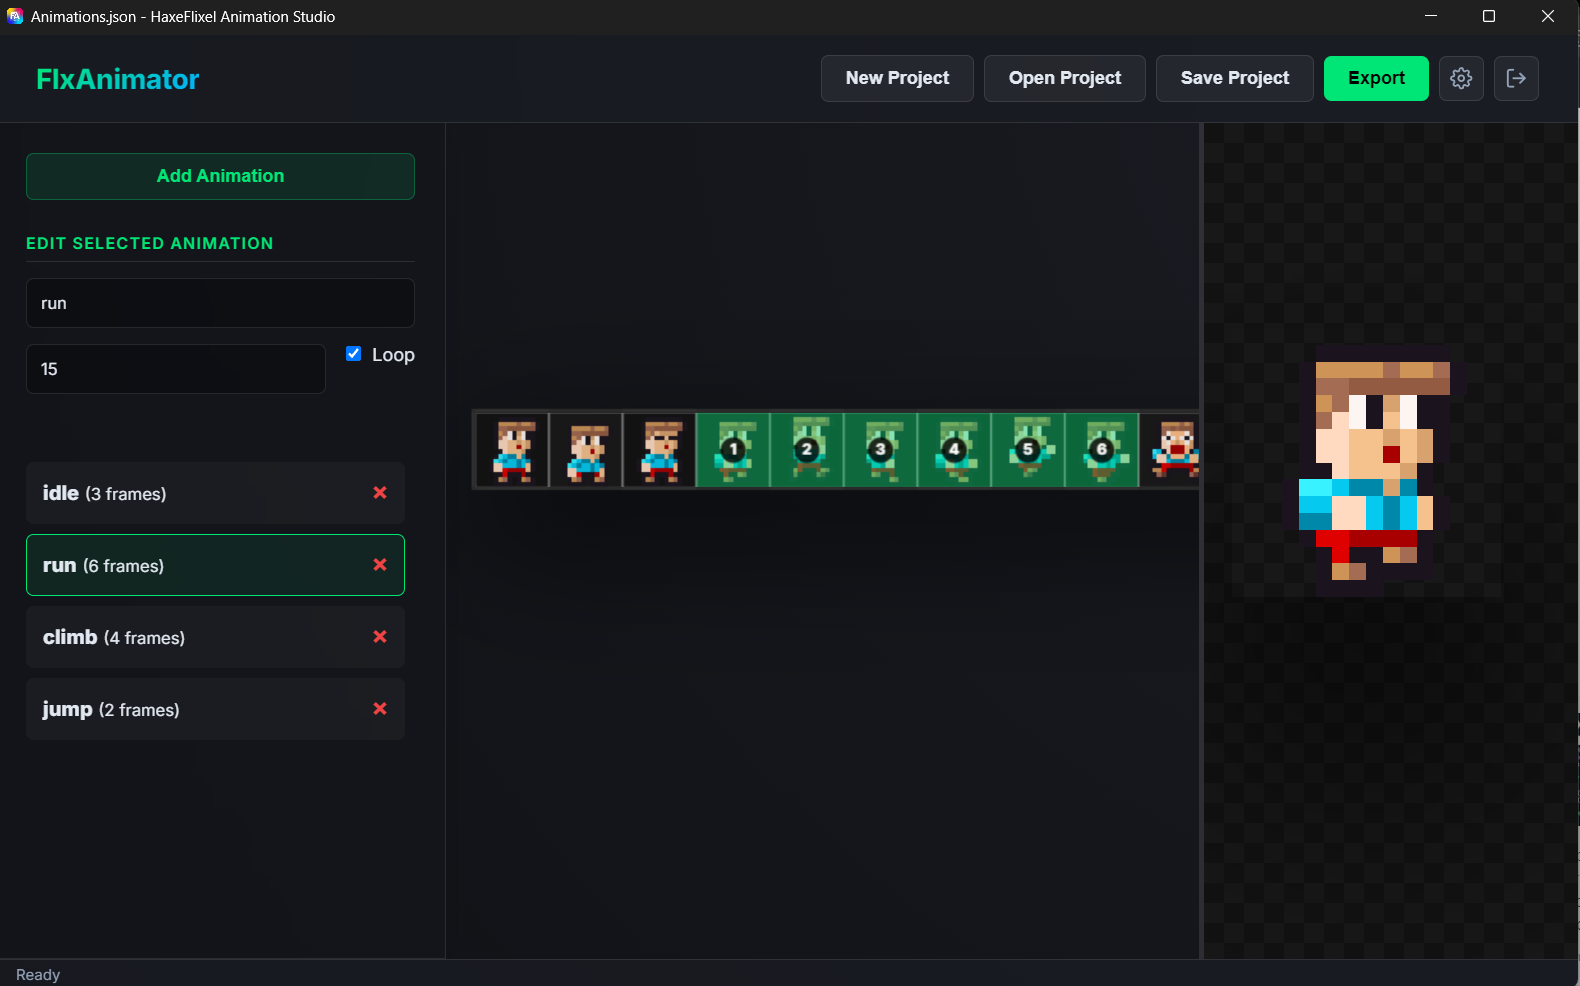
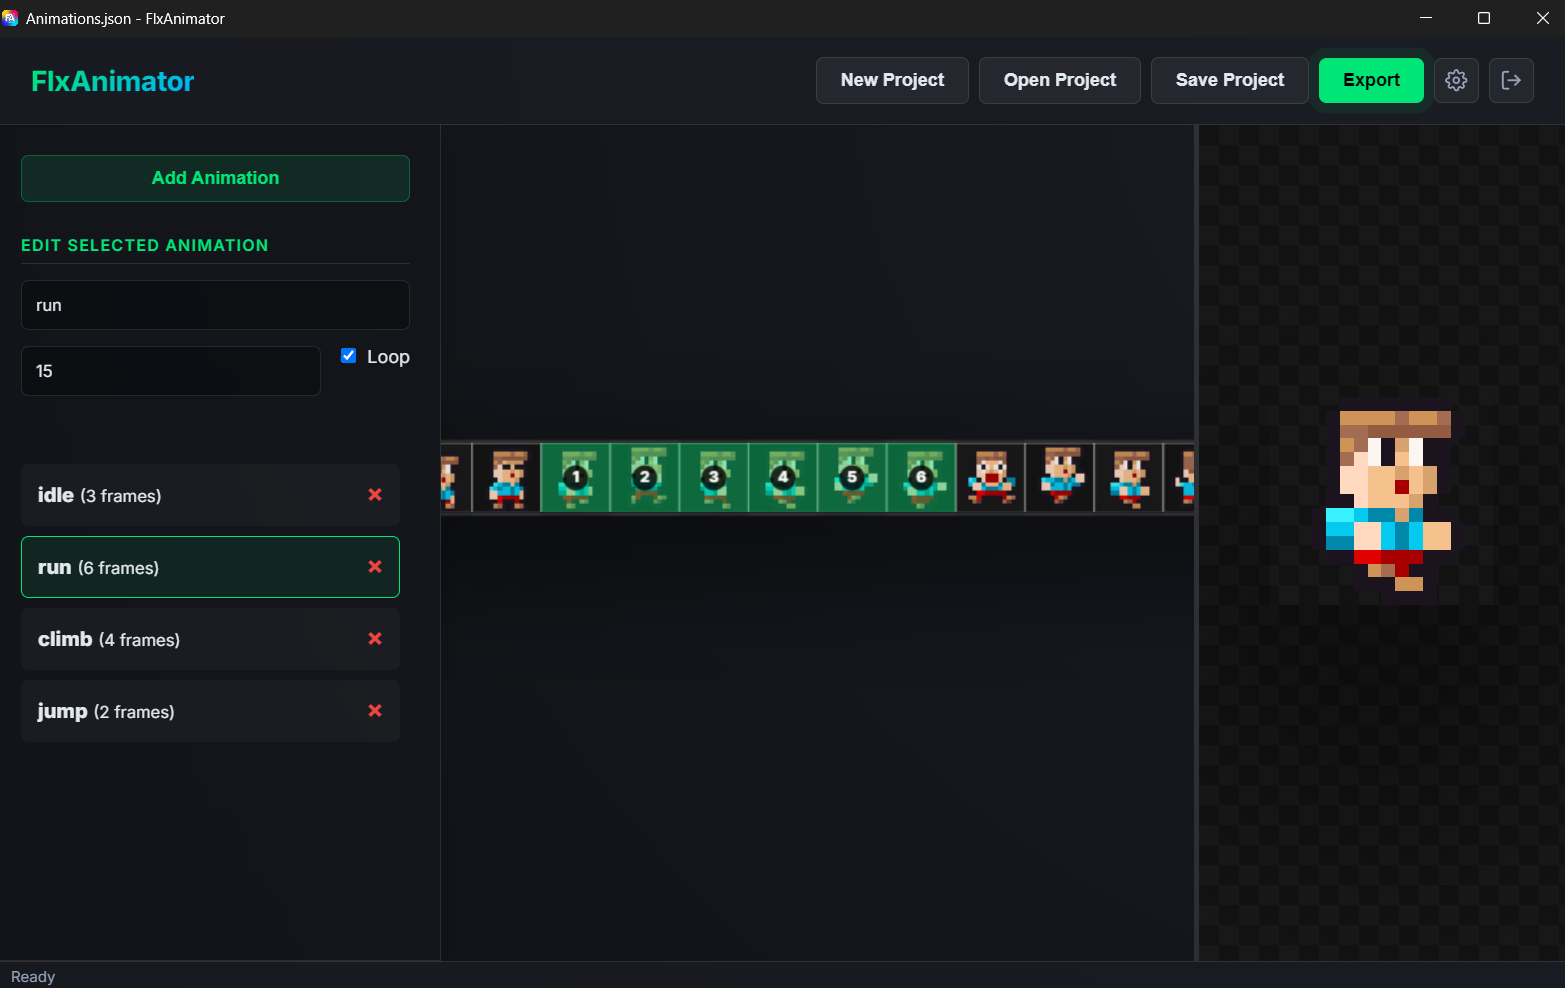
chore: rename application title in renderer to FlxAnimator and update project screenshot

diff --git a/renderer.js b/renderer.js
@@ -22,7 +22,7 @@ let currentFilePath = null;
 let isDirty = false;
 
 function updateTitle() {
-    const baseTitle = "HaxeFlixel Animation Studio";
+    const baseTitle = "FlxAnimator";
     let filename = "Untitled";
     
     if (currentFilePath) {
